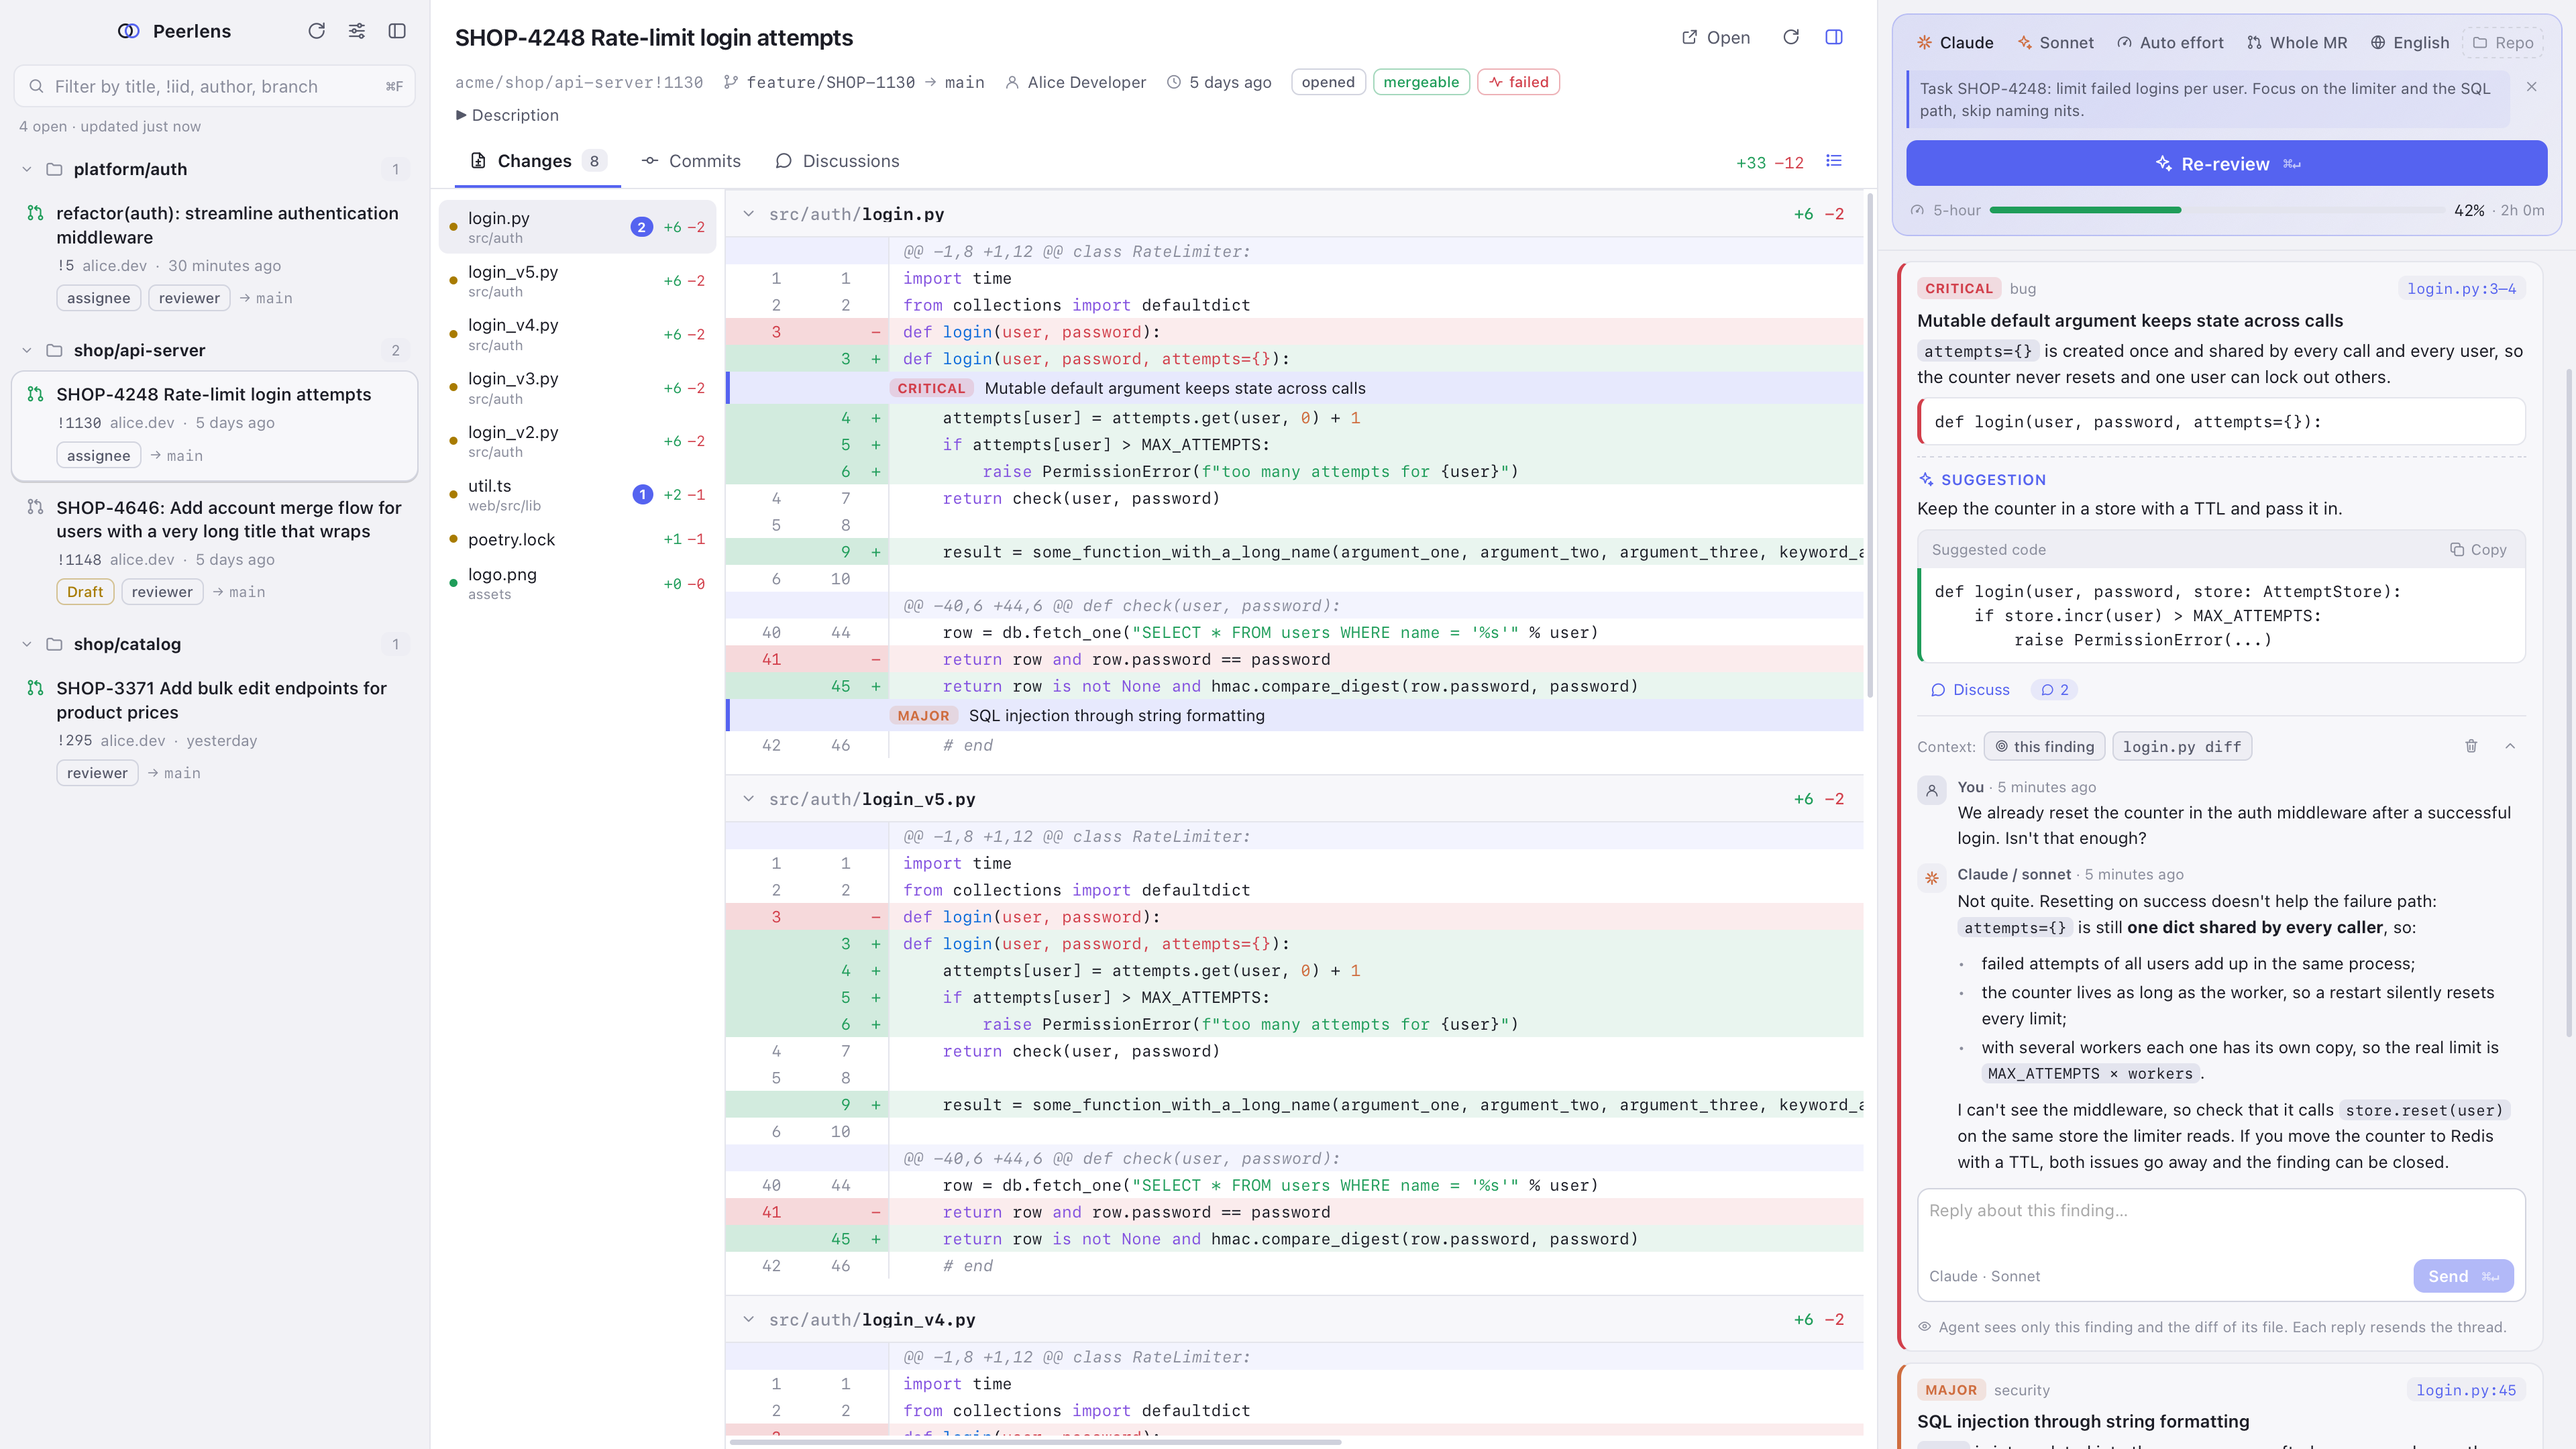
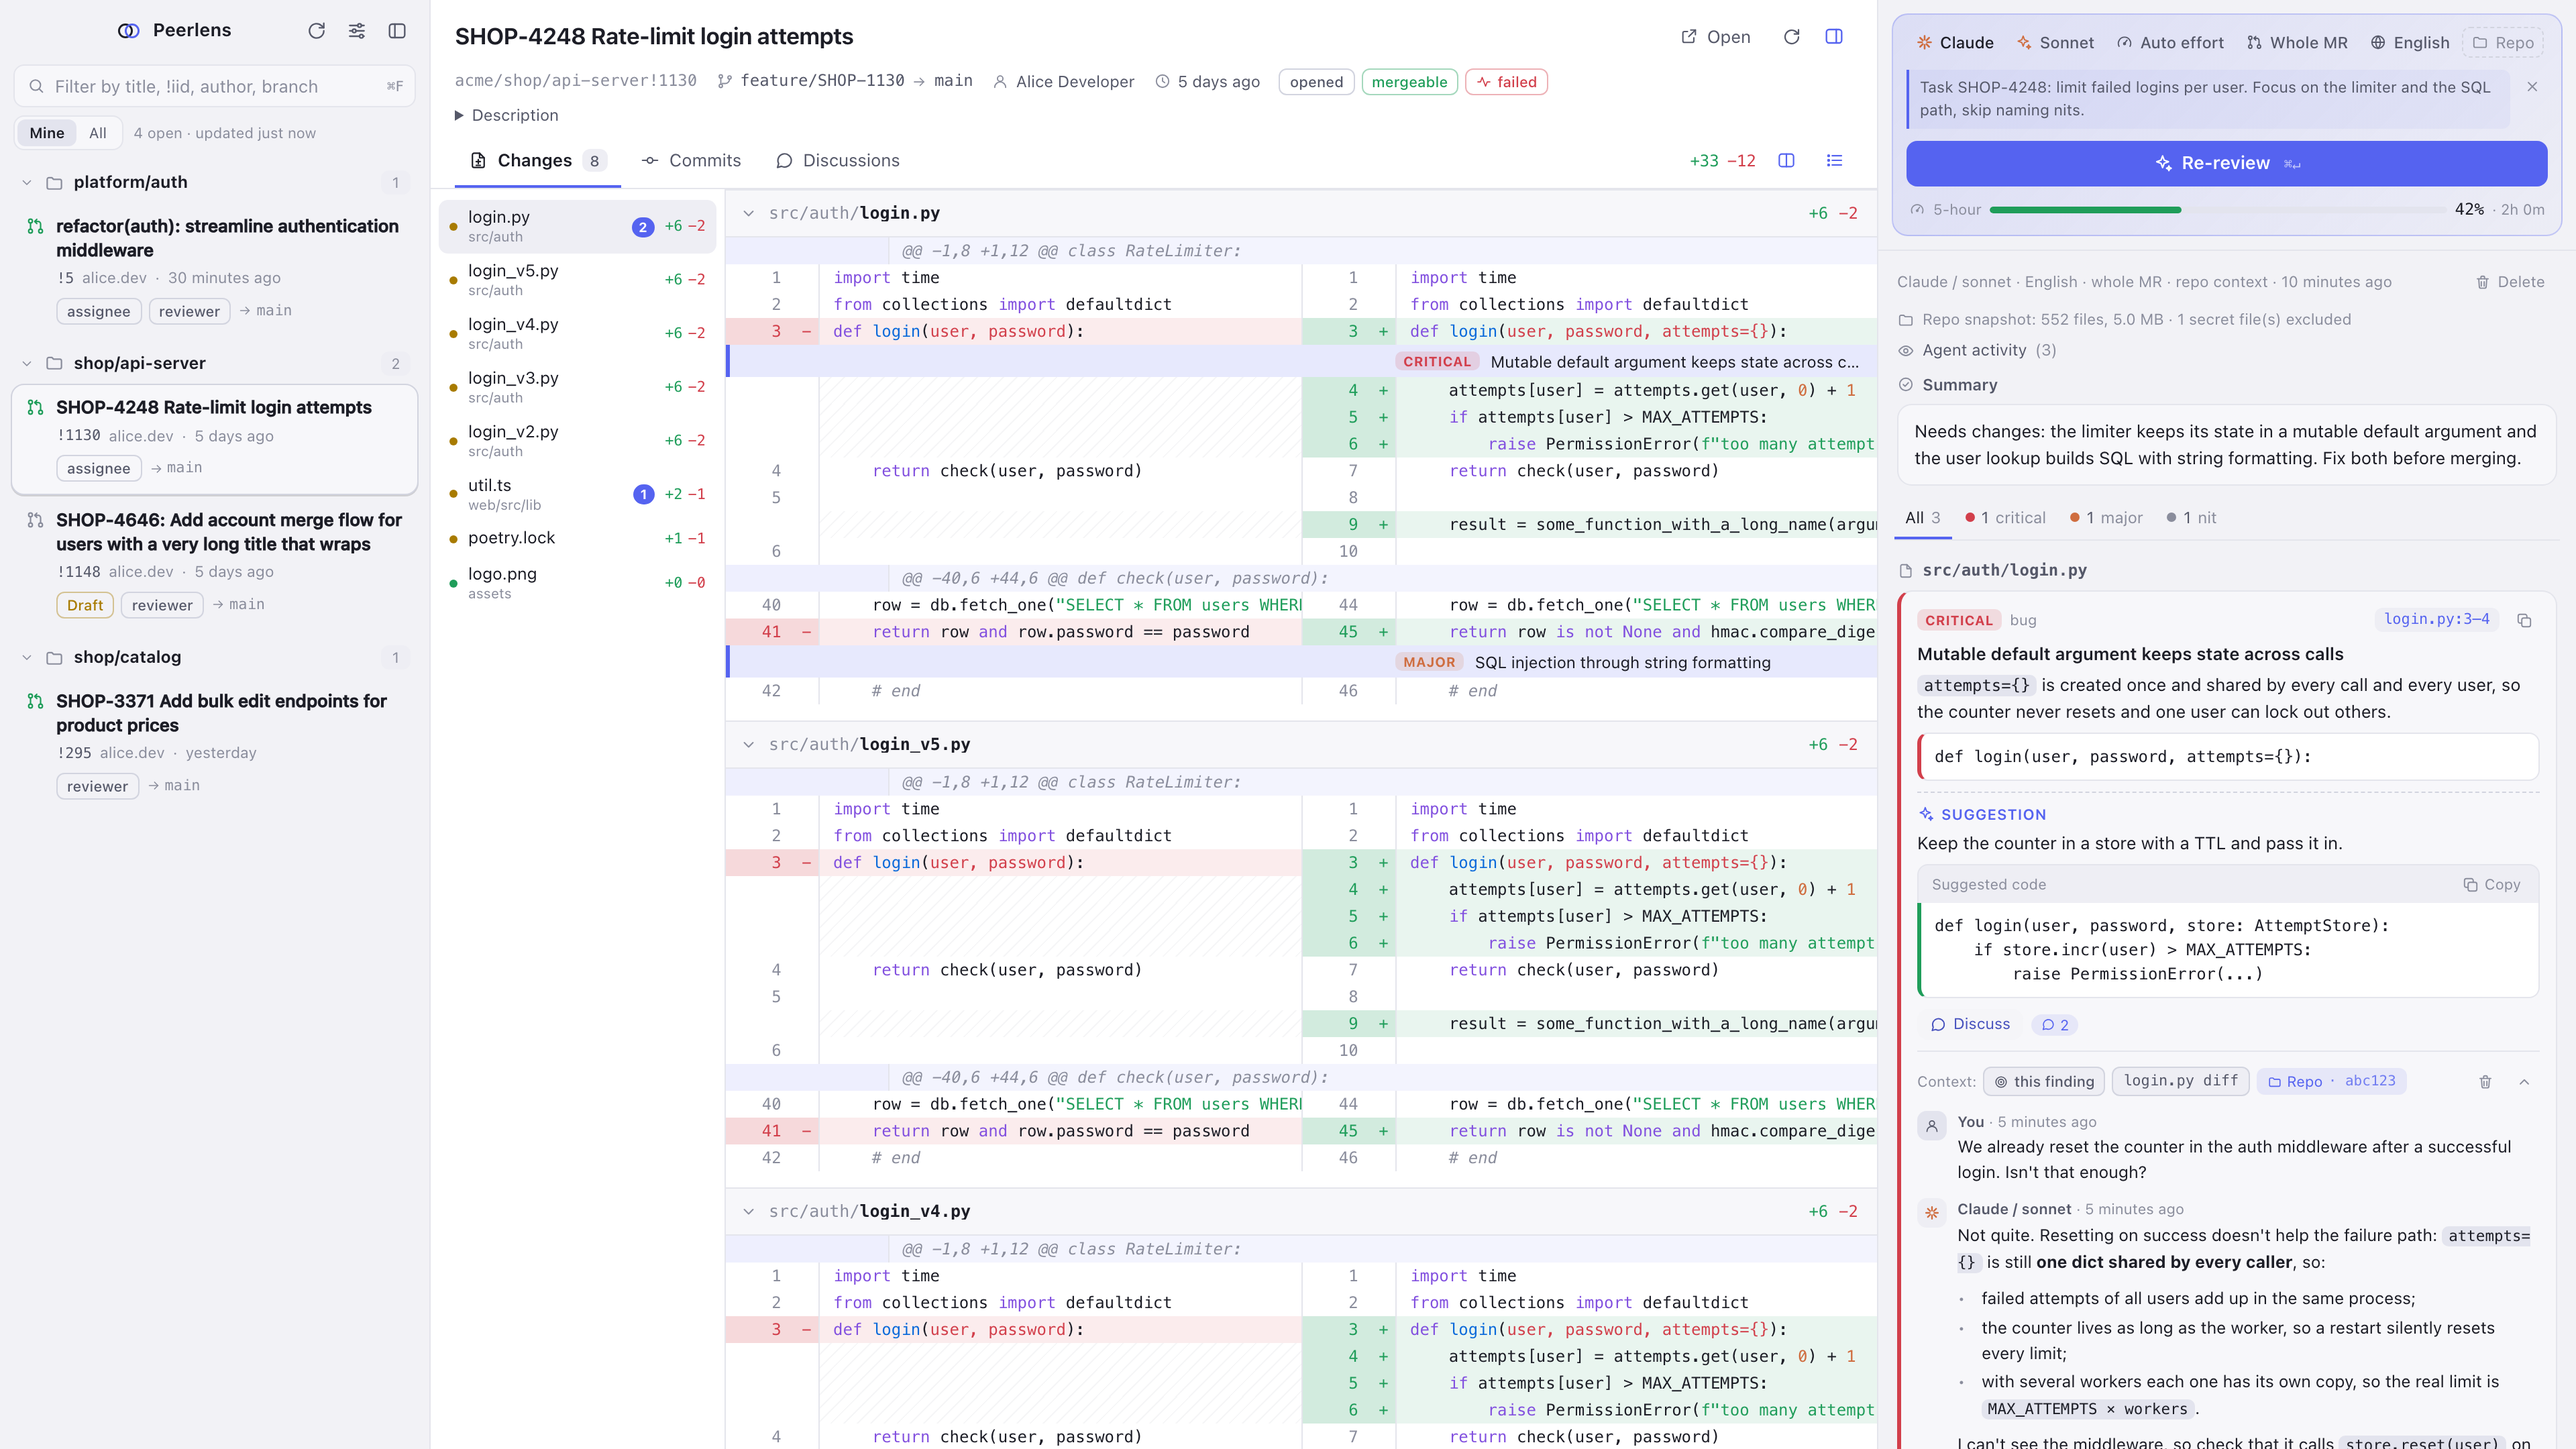
docs: refresh readme and screenshots
- Describe Mine/All, split diff, finding copy, task notes and discussion changes
- Document the repo snapshot cache location and release test behaviour
- Retake screenshots: summary on top, discussion with repo, split diff

diff --git a/README.md b/README.md
@@ -5,25 +5,31 @@ A small, fast desktop app for reviewing your GitLab merge requests with an AI ag
 [Codex](https://github.com/openai/codex) through their CLIs and your existing subscription. It talks to GitLab only
 through [`glab`](https://gitlab.com/gitlab-org/cli), and only with read requests.
 
-![Peerlens: MR list, diff with inline findings, AI review panel with a finding discussion](docs/screenshot-dark.png)
+![Peerlens: MR list, diff with inline findings, AI review panel with the summary and a finding discussion](docs/screenshot-dark.png)
 
 ## Features
 
-- **Your MRs in one place.** Open MRs where you are assignee or reviewer, grouped by project, with filter, draft and
-  role badges. The list loads on start and when you press Refresh. Nothing polls in the background.
-- **Fast diff viewer.** Virtualized unified diff with syntax highlighting (languages load on demand), sticky file
-  headers, pinned line numbers, collapsed large or generated files.
+- **Your MRs in one place.** *Mine* shows open MRs where you are assignee or reviewer; *All* shows recently updated
+  open MRs in your groups (or one group set in Settings). Grouped by project, with filter, draft and role badges.
+  Lists load on start and on Refresh, and switching between Mine and All shows the last loaded list instantly.
+  Nothing polls in the background.
+- **Fast diff viewer.** Virtualized unified or split (side-by-side) diff with syntax highlighting (languages load on
+  demand), sticky file headers, pinned line numbers, collapsed large or generated files.
 - **Commits and discussions.** Per-commit diffs, threads with resolved filter, jump from a comment to its line,
   GitLab Markdown and emoji rendered safely.
-- **AI review.** Pick the agent, model, reasoning effort, scope and language from one compact line. Findings stream
-  in with severity, explanation, the problematic snippet and a suggested fix with a Copy button. They are grouped by
-  file, shown inline in the diff and can be filtered by severity. Large MRs are reviewed file by file; lock, binary
-  and generated files are skipped and listed.
-- **Reviewer notes.** Optionally tell the agent what the change is about and what to focus on or skip. Notes are kept
-  per MR and sent as a separate trusted block; the MR description is already included.
+- **AI review.** Pick the agent, model, reasoning effort, scope and language from one compact line. The verdict
+  summary sits on top; findings stream in with severity, explanation, the problematic snippet and a suggested fix
+  with a Copy button. They are grouped by file, shown inline in the diff and can be filtered by severity. Large MRs
+  are reviewed file by file; lock, binary and generated files are skipped and listed.
+- **Hand a finding to your coding agent.** The copy icon on each finding copies it as Markdown: file and lines,
+  explanation, code, the suggested fix and the whole discussion, with a reminder to verify it before changing code.
+- **Reviewer notes.** Tell the agent what the change is about and what to focus on or skip, or paste the task with
+  its acceptance criteria: the agent checks the change against them. Pasted text (e.g. from Jira) is cleaned of
+  extra indentation and blank lines so it doesn't eat the limit. Notes are kept per MR and sent as a separate
+  trusted block; the MR description is already included.
 - **Discuss a finding.** Open a thread under any finding and argue with the agent about it. It sees the finding, the
-  diff of its file, the thread and (with Repo on) the repository at the reviewed commit, and can defend, correct or
-  withdraw it. Threads are saved with the review.
+  diff of its file, the thread and (with Repo on) the repository at the reviewed commit. It answers with its decision
+  first (still valid, downgraded, withdrawn) and checks fixes you propose. Threads are saved with the review.
 - **Optional repo context.** The agent can read a read-only snapshot of the repository at the MR head
   to check callers, definitions and tests. Finding discussions can read the same snapshot (the reviewed commit).
   Snapshots stay in a local cache (2 GB by default, least recently used removed first, unused ones after 14 days).
@@ -37,9 +43,9 @@ through [`glab`](https://gitlab.com/gitlab-org/cli), and only with read requests
   with one click (signed and verified). Peerlens never checks in the background.
 - Dark and light themes, keyboard shortcuts, and a small footprint: about 4 MB binary and ~0% CPU when idle.
 
-<details><summary>Light theme</summary>
+<details><summary>Light theme, split diff</summary>
 
-![Light theme](docs/screenshot-light.png)
+![Light theme with the split diff view](docs/screenshot-light.png)
 
 </details>
 
@@ -128,6 +134,7 @@ See [SECURITY.md](SECURITY.md) for the full security model and its limitations.
 |---|---|---|
 | Settings | `~/Library/Application Support/peerlens/settings.json` | `~/.config/peerlens/settings.json` |
 | Saved reviews | `~/Library/Application Support/peerlens/reviews/` | `~/.local/share/peerlens/reviews/` |
+| Repo snapshots | `~/Library/Caches/peerlens/snapshots/` | `~/.cache/peerlens/snapshots/` |
 
 | Setting | Default |
 |---|---|
@@ -141,9 +148,9 @@ See [SECURITY.md](SECURITY.md) for the full security model and its limitations.
 | Pause when Claude usage reaches | 80% |
 | Max reviews per hour / agent runs per review / pause between parts | 20 / 25 / 3 s |
 | Repo context archive limit | 300 MB |
-| Repo snapshot cache | 2 GB |
+| Repo snapshot cache | 2 GB (Settings → Repo context → Clear empties it) |
 | Never unpack (repo context) | `.env*`, `*.pem`, `*.key`, `*secret*`, `*credential*`, … |
-| GitLab host, binary paths | glab's default host; auto-detect |
+| GitLab host, group for "All", binary paths | glab's default host; all your groups; auto-detect |
 
 ## Shortcuts
 
@@ -157,7 +164,7 @@ On Linux use Ctrl instead of ⌘.
 | ⌘↵ | Start review |
 | ⌘B / ⌘J | Toggle the MR sidebar / the review panel |
 | ⌘, | Settings |
-| Shift + wheel | Scroll the diff sideways (trackpad swipes work too) |
+| Shift + wheel | Scroll the diff sideways (trackpad swipes work too; in split view both sides move together) |
 
 ## Development
 
@@ -186,7 +193,7 @@ Layout:
 src-tauri/src/
   gitlab/      the only place glab runs (GET-only), API calls, models
   agents/      agent detection, read-only runners for Claude Code and Codex, tolerant output parser
-  review/      chunking, prompt, repo snapshot, saved reviews
+  review/      chunking, prompt, repo snapshot and its cache, saved reviews
   diff.rs      unified diff parser
   platform.rs  OS-specific code (binary lookup, process groups, opening URLs)
 src/           Svelte 5 UI (no UI kit; custom diff renderer, Markdown renderer, icons)
@@ -212,13 +219,14 @@ scripts/       app icon source (swift scripts/icon.swift icon.png && pnpm tauri 
    python3 scripts/release.py bump 0.2.0
    git commit -am "chore: release 0.2.0" && git tag v0.2.0 && git push origin main v0.2.0
    ```
-3. The release workflow builds macOS and Linux packages, writes the changelog from the `feat:`/`fix:` commits since
-   the previous tag, signs the update bundles and uploads `latest.json` to a **draft** release. Review it and
-   publish; installed apps see the update only after that.
+3. The release workflow builds macOS and Linux packages, writes the changelog from the `feat:`/`fix:`/`perf:`
+   commits since the previous tag, signs the update bundles and uploads `latest.json` to a **draft** release. Tests
+   run once, in parallel with the builds; if they fail, `latest.json` is not uploaded. Check that the run is green,
+   review the draft and publish; installed apps see the update only after that.
 
 ## Roadmap
 
-Split diff view, GitHub support, optional auto-refresh, signed and notarized macOS builds, Linux ARM builds.
+GitHub support, optional auto-refresh, signed and notarized macOS builds, Linux ARM builds.
 
 ## License
 
